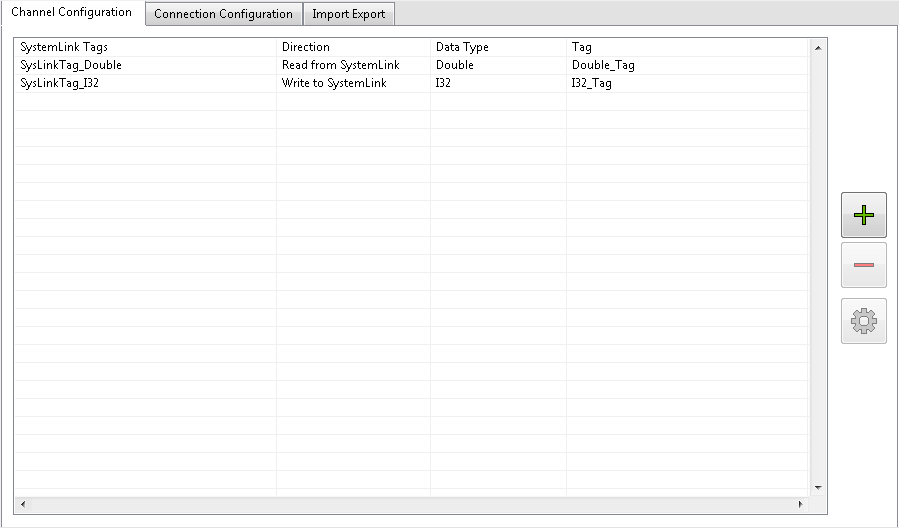
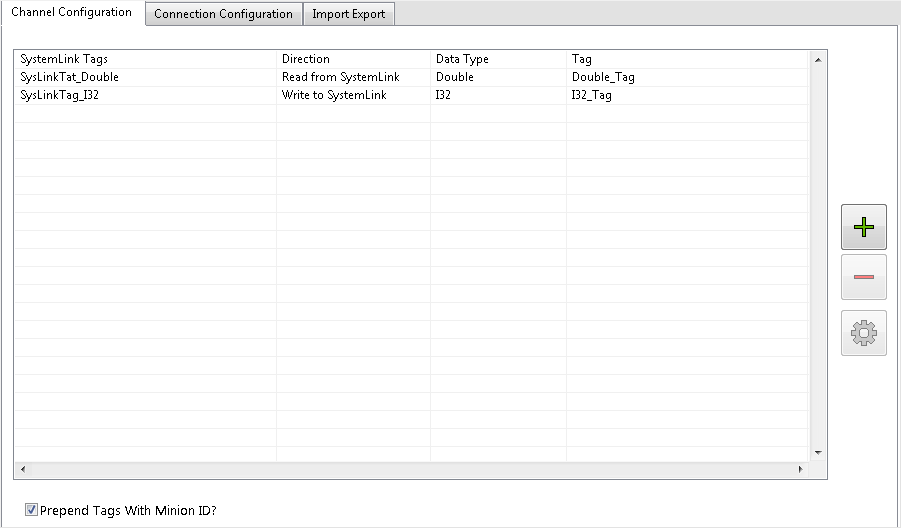
Update Readme
Update README.md to reflect new features.

diff --git a/README.md b/README.md
@@ -9,6 +9,12 @@ Read or write tag data to and from a configured [SystemLink](http://www.ni.com/p
 
 **SystemLink Tags:** Path to the SystemLink tag. If the tag does not already exist, it will be create during initialization.
 
+The SystemLink module also allows users to enter specific template literals within the **SystemLink Tags** which will be resolved during runtime initialization. These templates take the form of ${TEMPLATE}. The module currently allows the following templates.
+
+Template | Resolved Name
+---|---
+${MinionID} | The runtime system's Minion ID. If the Minion ID cannot be found, the Hostname will be used instead.
+
 **Direction:** Select whether the tag is being written to or read from the SystemLink Server.
 
 **Data Type:** The data type of the configured channel. SystemLink directly supports only a subset of all DCAF data types so the selected data type will correspond to data types within the SystemLink server as follows.
@@ -25,6 +31,10 @@ Timestamp | Timestamp
 > **Note:** All tags will be stored in the Tag Bus as the selected data type except for `Timestamp` which is stored in the Tag Bus as a double.
 
 **Tag:** The DCAF tag which the SystemLink channel will be mapped to.
+
+**Prepend Tag With Minion ID?:** If enabled, all **SystemLink Tags** paths will be prepended with the system's Minion ID during initialization. The full tag path will resolve to \<MinionID\>.\<SystemLinkTag\>
+
+If the system does not have a Minion ID, the Hostname will be used instead.
 
 ### Connection Configuration
 
